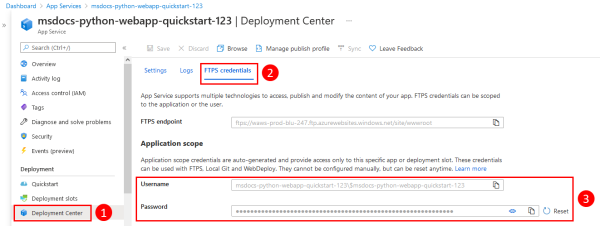
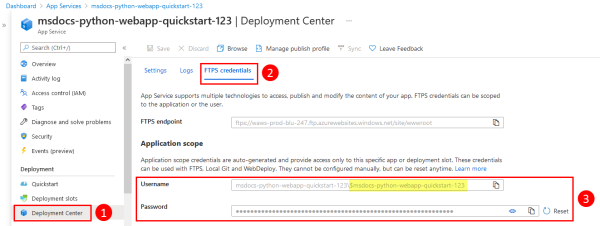
Fixed content around deploying zip file to Azure (correct username) Added content for streaming logs

Changed region(s): [[0.57, 0.7743, 0.78, 0.8673]]

diff --git a/articles/ux-beta/quickstart-python/quickstart-python.md b/articles/ux-beta/quickstart-python/quickstart-python.md
@@ -223,21 +223,72 @@ Having issues? Refer first to the [Troubleshooting guide](/azure/app-service/con
 
 ## 4 - Stream logs
 
-You can access the console logs generated from inside the app and the container in which it runs. Logs include any output generated using `print` statements.
+Azure App Service captures all messages output to the console to assist you in diagnosing issues with your application. The sample apps include `print()` statements to demonstrate this capability.
 
-To stream logs, run the [az webapp log tail](/cli/azure/webapp/log#az_webapp_log_tail) command:
+### [Flask](#tab/flask)
+
+:::code language="python" source="~/../msdocs-python-flask-webapp-quickstart/app.py" range="6-21" highlight="3,12, 15":::
+
+### [Django](#tab/django)
+
+:::code language="python" source="~/../msdocs-python-flask-webapp-quickstart/app.py" range="6-21" highlight="3,12, 15":::
+
+---
+
+The contents of the App Service diagnostic logs can be reviewed in the Azure portal, VS Code, or using the Azure CLI.
+
+### [Azure portal](#tab/azure-portal)
+
+| Instructions    | Screenshot |
+|:----------------|-----------:|
+| [!INCLUDE [Stream logs from Azure portal 1](<./includes/quickstart-python/stream-logs/azure-portal-1.md>)] | :::image type="content" source="./media/quickstart-python/stream-logs/azure-portal-1-240px.png" alt-text="Screenshot" lightbox="./media/quickstart-python/stream-logs/azure-portal-1.png"::: |
+| [!INCLUDE [Stream logs from Azure portal 2](<./includes/quickstart-python/stream-logs/azure-portal-2.md>)] | :::image type="content" source="./media/quickstart-python/stream-logs/azure-portal-2-240px.png" alt-text="Screenshot" lightbox="./media/quickstart-python/stream-logs/azure-portal-2.png"::: |
+
+### [VS Code](#tab/vscode-aztools)
+
+| Instructions    | Screenshot |
+|:----------------|-----------:|
+| [!INCLUDE [Stream logs from VS Code 1](<./includes/quickstart-python/stream-logs/vscode-1.md>)] | :::image type="content" source="./media/quickstart-python/vscode-1-240px.png" alt-text="screenshot" lightbox="./media/quickstart-python/stream-logs/vscode-1.png"::: |
+| [!INCLUDE [Stream logs from VS Code 2](<./includes/quickstart-python/stream-logs/vscode-2.md>)] | :::image type="content" source="./media/quickstart-python/vscode-2-240px.png" alt-text="screenshot" lightbox="./media/quickstart-python/stream-logs/vscode-2.png"::: |
+
+### [Azure CLI](#tab/azure-cli)
+
+First, you need to configure Azure App Service to output logs to the App Service filesystem using the [az webapp log config](/cli/azure/webapp/log#az_webapp_log_config) command.
 
 ```azurecli
-az webapp log tail
+az webapp log config \
+    --web-server-logging 'filesystem' \
+    --name $APP_SERVICE_NAME \
+    --resource-group $RESOURCE_GROUP_NAME
 ```
 
-You can also include the `--logs` parameter with then `az webapp up` command to automatically open the log stream on deployment.
+To stream logs, use the [az webapp log tail](/cli/azure/webapp/log#az_webapp_log_tail) command.
 
-Refresh the app in the browser to generate console logs, which include messages describing HTTP requests to the app. If no output appears immediately, try again in 30 seconds.
+```azurecli
+az webapp log tail \
+    --name $APP_SERVICE_NAME \
+    --resource-group $RESOURCE_GROUP_NAME
+```
 
-You can also inspect the log files from the browser at `https://<app-name>.scm.azurewebsites.net/api/logs/docker`.
+Refresh the home page in the app or attempt other requests to generate some log messages. The output should look similar to the following.
 
-To stop log streaming at any time, press **Ctrl**+**C** in the terminal.
+```Output
+Starting Live Log Stream ---
+
+2021-12-23T02:15:52.740703322Z Request for index page received
+2021-12-23T02:15:52.740740222Z 169.254.130.1 - - [23/Dec/2021:02:15:52 +0000] "GET / HTTP/1.1" 200 1360 "https://msdocs-python-webapp-quickstart-123.azurewebsites.net/hello" "Mozilla/5.0 (Windows NT 10.0; Win64; x64; rv:95.0) Gecko/20100101 Firefox/95.0"
+2021-12-23T02:15:52.841043070Z 169.254.130.1 - - [23/Dec/2021:02:15:52 +0000] "GET /static/bootstrap/css/bootstrap.min.css HTTP/1.1" 200 0 "https://msdocs-python-webapp-quickstart-123.azurewebsites.net/" "Mozilla/5.0 (Windows NT 10.0; Win64; x64; rv:95.0) Gecko/20100101 Firefox/95.0"
+2021-12-23T02:15:52.884541951Z 169.254.130.1 - - [23/Dec/2021:02:15:52 +0000] "GET /static/images/azure-icon.svg HTTP/1.1" 200 0 "https://msdocs-python-webapp-quickstart-123.azurewebsites.net/" "Mozilla/5.0 (Windows NT 10.0; Win64; x64; rv:95.0) Gecko/20100101 Firefox/95.0"
+2021-12-23T02:15:53.043211176Z 169.254.130.1 - - [23/Dec/2021:02:15:53 +0000] "GET /favicon.ico HTTP/1.1" 404 232 "https://msdocs-python-webapp-quickstart-123.azurewebsites.net/" "Mozilla/5.0 (Windows NT 10.0; Win64; x64; rv:95.0) Gecko/20100101 Firefox/95.0"
+
+2021-12-23T02:16:01.304306845Z Request for hello page received with name=David
+2021-12-23T02:16:01.304335945Z 169.254.130.1 - - [23/Dec/2021:02:16:01 +0000] "POST /hello HTTP/1.1" 200 695 "https://msdocs-python-webapp-quickstart-123.azurewebsites.net/" "Mozilla/5.0 (Windows NT 10.0; Win64; x64; rv:95.0) Gecko/20100101 Firefox/95.0"
+2021-12-23T02:16:01.398399251Z 169.254.130.1 - - [23/Dec/2021:02:16:01 +0000] "GET /static/bootstrap/css/bootstrap.min.css HTTP/1.1" 304 0 "https://msdocs-python-webapp-quickstart-123.azurewebsites.net/hello" "Mozilla/5.0 (Windows NT 10.0; Win64; x64; rv:95.0) Gecko/20100101 Firefox/95.0"
+2021-12-23T02:16:01.430740060Z 169.254.130.1 - - [23/Dec/2021:02:16:01 +0000] "GET /static/images/azure-icon.svg HTTP/1.1" 304 0 "https://msdocs-python-webapp-quickstart-123.azurewebsites.net/hello" "Mozilla/5.0 (Windows NT 10.0; Win64; x64; rv:95.0) Gecko/20100101 Firefox/95.0"
+```
+
+---
+
 
 Having issues? Refer first to the [Troubleshooting guide](/azure/app-service/configure-language-python.md#troubleshooting), otherwise, [let us know](https://aka.ms/FlaskCLIQuickstartHelp).
 

diff --git a/articles/ux-beta/quickstart-python/includes/quickstart-python/deploy-zip-file.md b/articles/ux-beta/quickstart-python/includes/quickstart-python/deploy-zip-file.md
@@ -1,10 +1,10 @@
-Applications can be deployed to Azure by creating and uploading a ZIP file of the application code to Azure. ZIP files can be uploaded to Azure using the Azure CLI or a HTTP client like [curl](https://curl.se/).
-
-When deploying a ZIP file of your Python code, you need to set a flag to enable Azure's build automation. The build automation will install any necessary requirements and package the application to run on Azure.
+Applications can be deployed to Azure by creating and uploading a ZIP file of the application code to Azure. ZIP files can be uploaded to Azure using the Azure CLI or a HTTP client like [cURL](https://curl.se/).
 
 ### Enable build automation
 
-First, enable the build automation in Azure by setting the `SCM_DO_BUILD_DURING_DEPLOYMENT` app setting in either the Azure portal or Azure CLI.
+When deploying a ZIP file of your Python code, you need to set a flag to enable Azure's build automation. The build automation will install any necessary requirements and package the application to run on Azure.
+
+Build automation in Azure is enabled by setting the `SCM_DO_BUILD_DURING_DEPLOYMENT` app setting in either the Azure portal or Azure CLI.
 
 ##### [Azure portal](#tab/deploy-instructions-azportal)
 
@@ -27,7 +27,7 @@ az webapp config appsettings set \
 
 #### Create a ZIP file of your application
 
-Next, create a ZIP file of your application. You only need to include needed components of the application. You do not need to include any files or directories that start with a dot (`.`) such as `.venv`, `.gitignore`, `.github`, or `.vscode`.
+Next, create a ZIP file of your application. You only need to include components of the application itself. You do not need to include any files or directories that start with a dot (`.`) such as `.venv`, `.gitignore`, `.github`, or `.vscode`.
 
 ##### [macOS/Linux](#tab/mac-linux)
 
@@ -58,13 +58,13 @@ az webapp deploy \
     --src-path <zip-file-path>
 ```
 
-##### [curl](#tab/deploy-instructions--zip-curl)
+##### [cURL](#tab/deploy-instructions--zip-curl)
 
 To use an HTTP client such as curl to upload your ZIP file to Azure, you will need the deployment username and password for your App Service. These credentials can be obtained from the Azure portal.
 
 1. On the page for the web app, select *Deployment center* from the menu on the left side of the page.
 1. Select the *FTPS credentials* tab.
-1. Use the **Username** and **Password** under *Application scope* for the deployment credentials in the `curl` command below.
+1. The **Username** and **Password** are shown under the *Application scope* heading.  For zip file deployments, only use the part of the username after the `\` character that starts with a `$`, for example `$msdocs-python-webapp-quickstart-123`. These credentials will be needed in the cURL command below.
 
 :::image type="content" source="../../media/quickstart-python/deploy-zip/azure-portal-get-username-600px.png" alt-text="A screenshot showing the location of the deployment credentials in the Azure portal." lightbox="../../media/quickstart-python/deploy-zip/azure-portal-get-username.png":::
 

diff --git a/articles/ux-beta/quickstart-python/includes/quickstart-python/create-app-service/azure-portal-3.md b/articles/ux-beta/quickstart-python/includes/quickstart-python/create-app-service/azure-portal-3.md
@@ -1,7 +1,7 @@
 On the **Create Web App** page, fill out the form as follows.
 
 1. *Resource Group* &rarr; Select *Create new* and use a name of **msdocs-python-webapp-quickstart**.
-1. *Name* &rarr; **msdocs-python-quickstart-XYZ** where XYZ is any three random characters. This name must be unique across Azure.
+1. *Name* &rarr; **msdocs-python-webapp-quickstart-XYZ** where XYZ is any three random characters. This name must be unique across Azure.
 1. *Runtime stack* &rarr; **Python 3.8**
 1. *Region* &rarr; Any Azure region near you.
 1. *App Service Plan* &rarr; Select **Change size** under *Sku and size setting* to select a different App Service plan.

diff --git a/articles/ux-beta/quickstart-python/includes/quickstart-python/stream-logs/azure-portal-1.md b/articles/ux-beta/quickstart-python/includes/quickstart-python/stream-logs/azure-portal-1.md
@@ -1,0 +1,6 @@
+First, you need to enabled streaming logs in Azure App Service. Navigate to page for the App Service instance in the Azure portal.<br>
+<br>
+1. Select the *App Service logs* under the *Monitoring* heading in the menu on the left side of the page.
+1. Change the *Application Logging* property from **Off** to **File System.
+1. Enter a retention period of 30 days for the logs.
+1. Select **Save** to save your changes.

diff --git a/articles/ux-beta/quickstart-python/includes/quickstart-python/stream-logs/azure-portal-2.md b/articles/ux-beta/quickstart-python/includes/quickstart-python/stream-logs/azure-portal-2.md
@@ -1,0 +1,3 @@
+Select the *Log stream* item from the menu under the Monitoring section. Refresh the home page in the app or attempt other requests to generate some log messages.<br>
+<br>
+You will see any log messages generated by your app and messages generated by the service in the output.

diff --git a/articles/ux-beta/quickstart-python/includes/quickstart-python/stream-logs/vscode-2.md b/articles/ux-beta/quickstart-python/includes/quickstart-python/stream-logs/vscode-2.md
@@ -1,0 +1,3 @@
+The console logs appear in VS Code's Output window. Refresh the home page in the app or attempt other requests to generate some log messages.<br>
+<br>
+You will see any log messages generated by your app as well as other messages generated by the service in the output.

diff --git a/articles/ux-beta/quickstart-python/includes/quickstart-python/stream-logs/vscode-1.md b/articles/ux-beta/quickstart-python/includes/quickstart-python/stream-logs/vscode-1.md
@@ -1,0 +1,3 @@
+First, you need to enabled streaming logs in Azure App Service.<br>
+<br>
+In the *App Service* section of the Azure Tools for VS Code extension, right-click on your App Service instance and select *Start Streaming Logs* from the menu.
